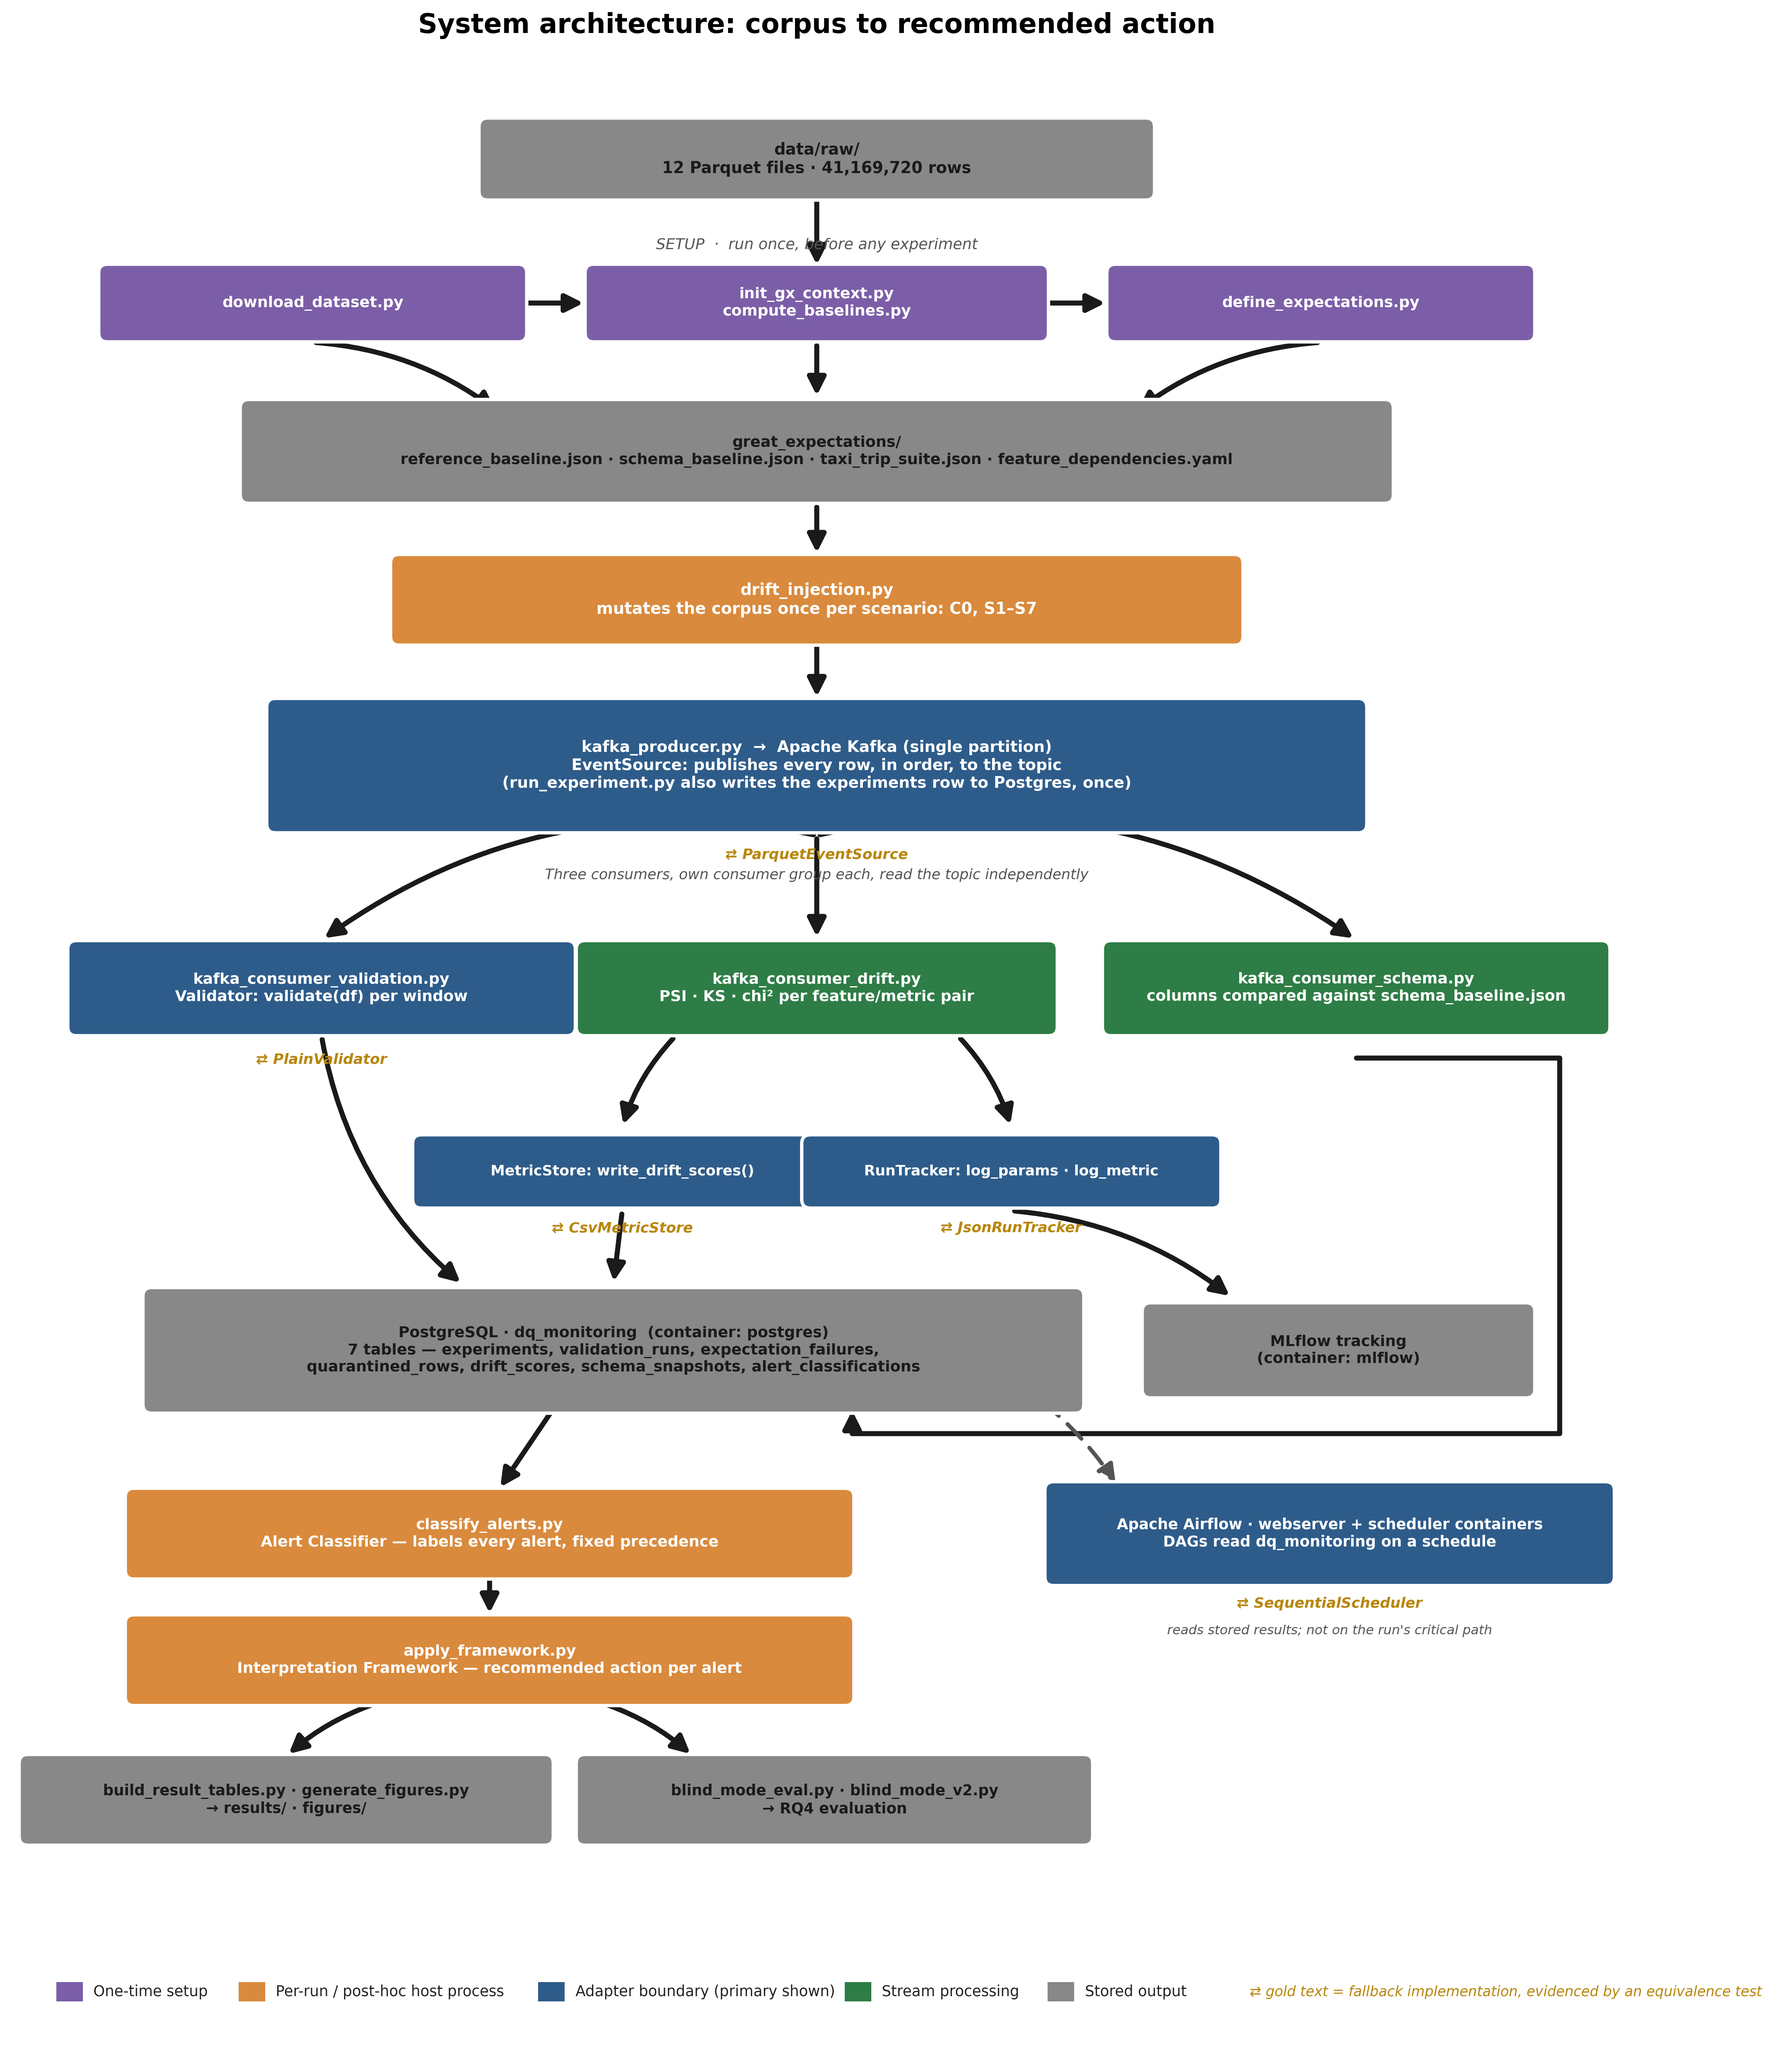
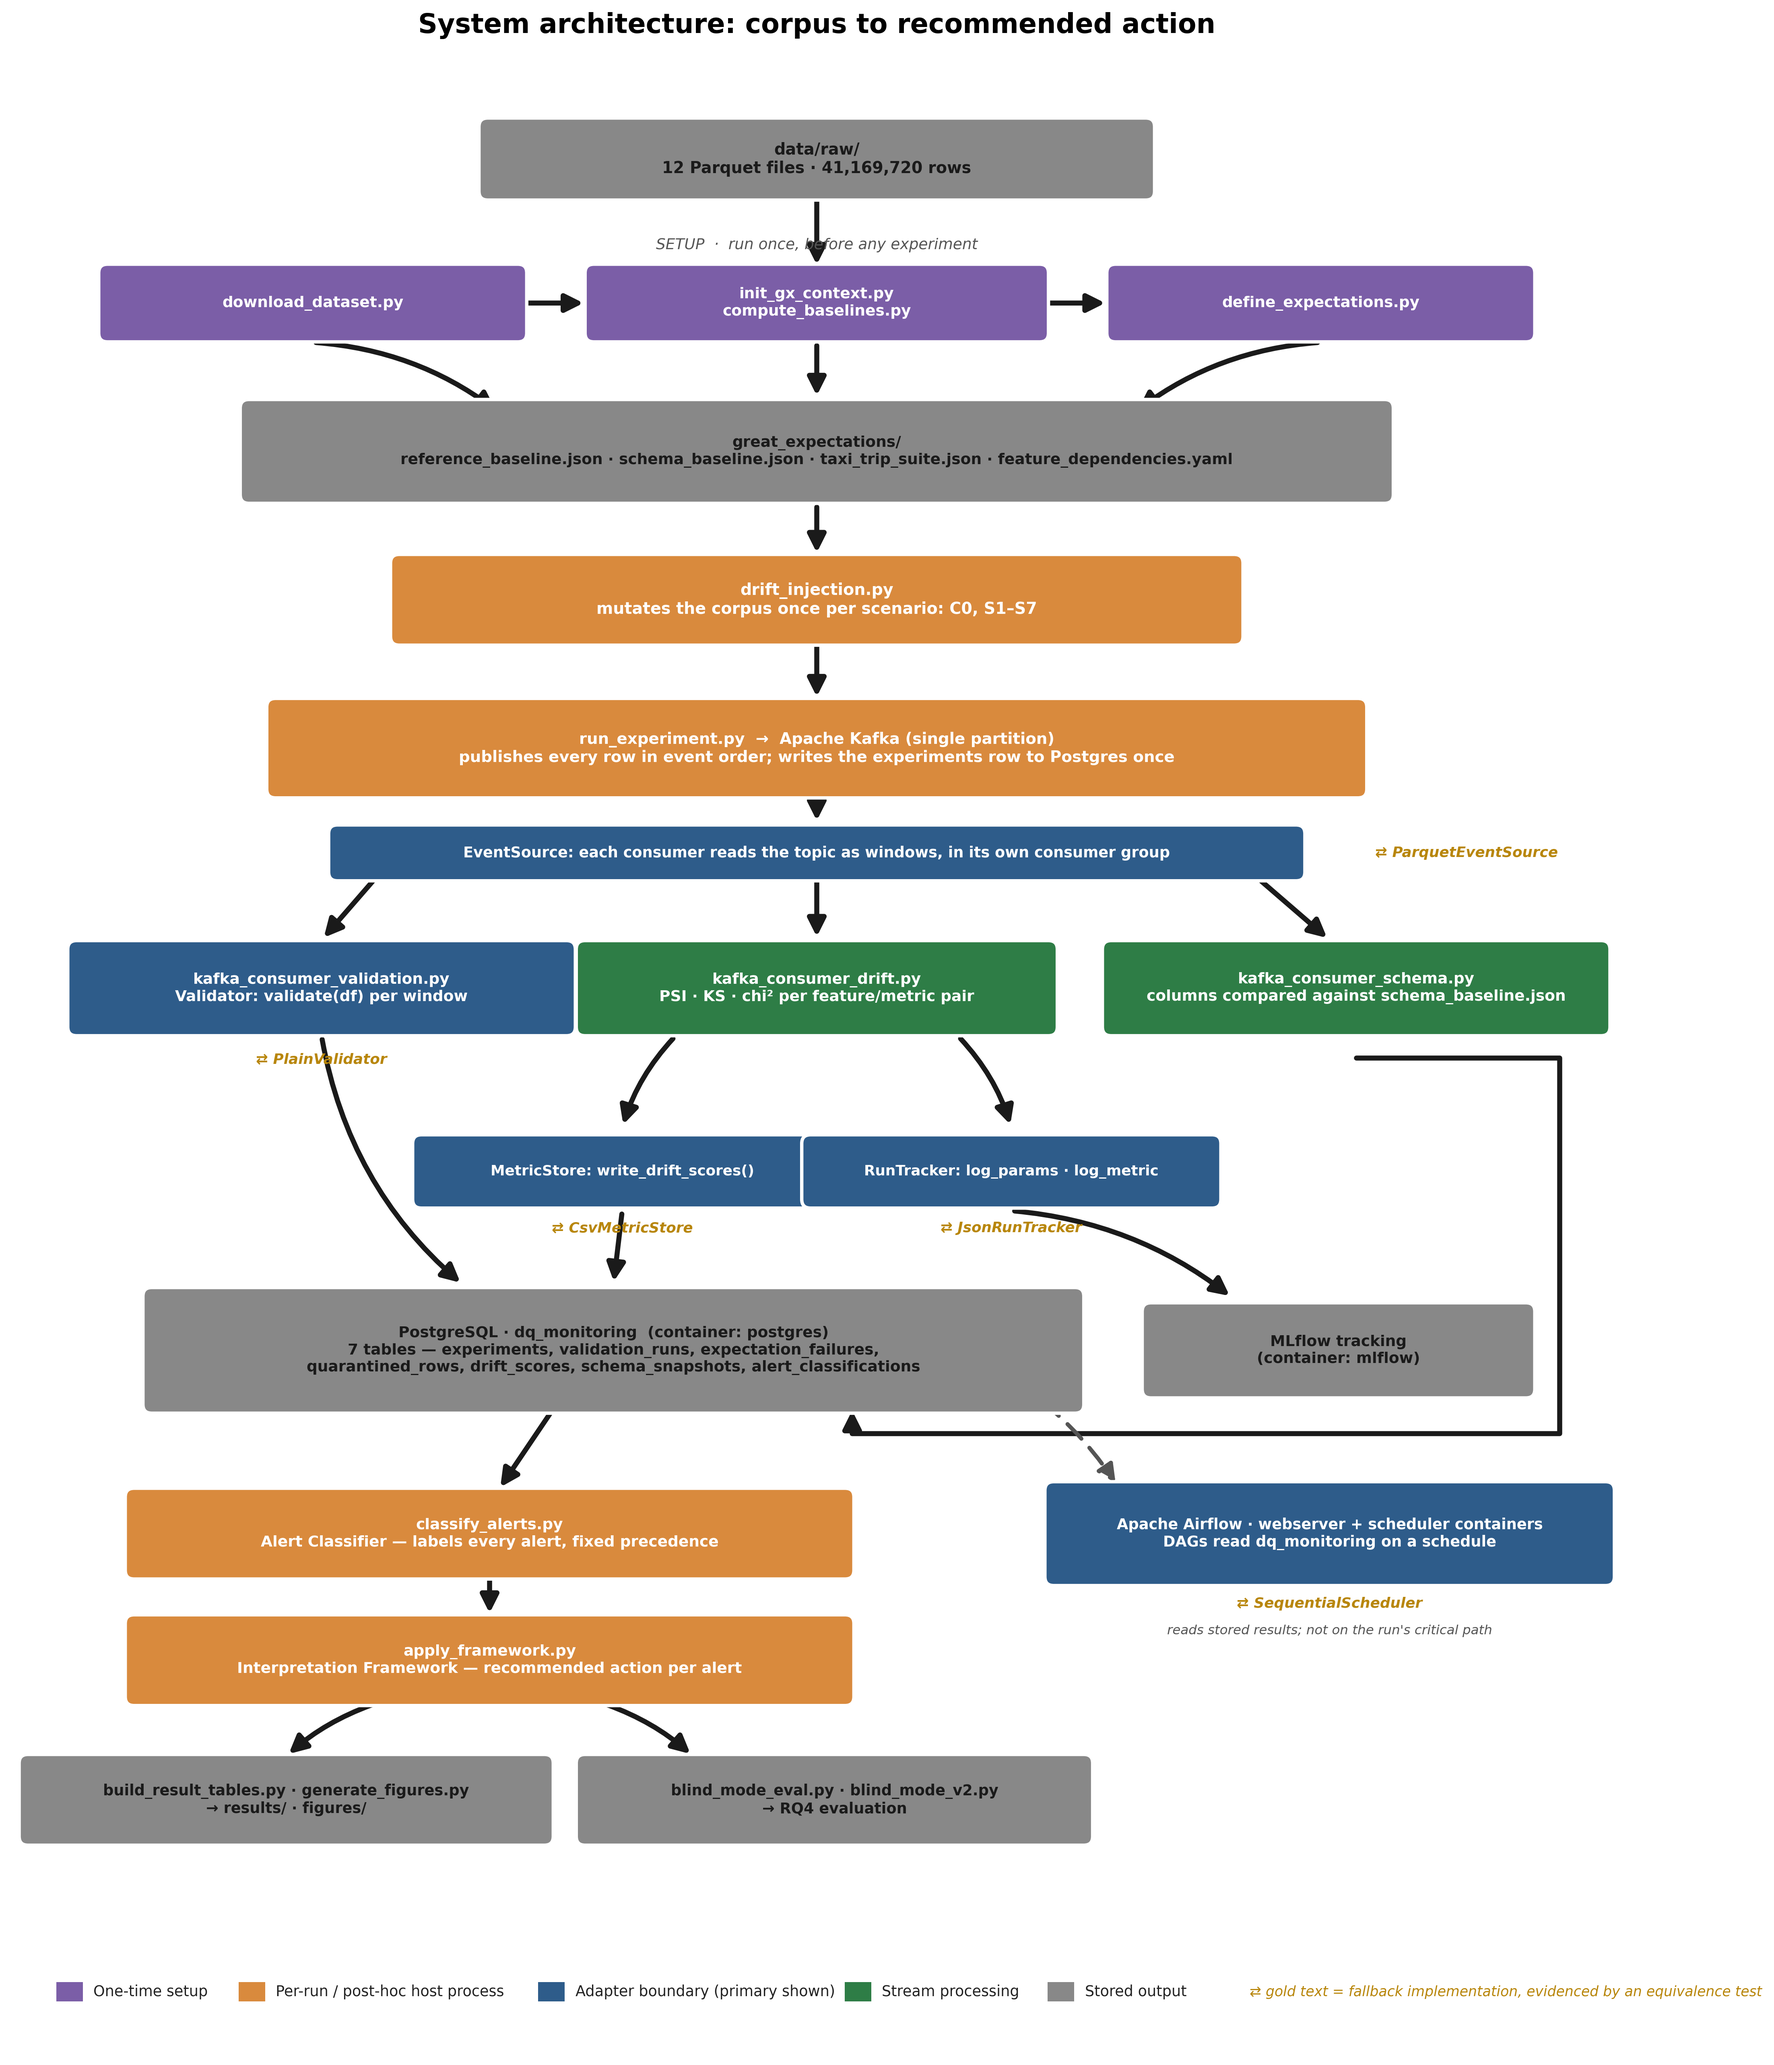
Fix four inaccurate figures found in an audit against the result data
- fig_decision_tree drew the empirical-edge -> ACCEPT path as exercised;
  it never was. Exercised paths are now read from each alert's stored
  classification rule, and a failed query skips the figure instead of
  drawing every path as exercised.
- fig_unseen_category defined post-activation by window_start while the
  rest of the pipeline uses window_end; now matches build_result_tables.
- fig_replay_pipeline said verify_experiment checks five tables (it
  checks four) and "8 PNG files" (now 10); counts dropped rather than
  re-hard-coded.
- fig_system_architecture credited kafka_producer.py, which no
  experiment uses, and put EventSource on the publish side; regenerated.

The first three need the database to regenerate; recorded in
PROJECT_RECORD.md Section 12. README's verify_experiment line fixed too.

Changed region(s): [[0.1243, 0.3119, 0.777, 0.4678]]

diff --git a/scripts/generate_figures.py b/scripts/generate_figures.py
@@ -305,17 +305,30 @@ def fig_decision_tree():
           magnitude >= 2x threshold        -> INVESTIGATE
           otherwise                        -> MONITOR
     """
+    # Which paths were exercised is read from the stored evidence, not assumed:
+    # each alert records the rule that labelled it (alert_classifier.classify).
     try:
         ex = q("""SELECT
               (SELECT COUNT(*) FROM dq_monitoring.schema_snapshots
                WHERE has_schema_change)     AS schema_changes,
               (SELECT COUNT(*) FROM dq_monitoring.alert_classifications
-               WHERE label = 'UNEXPLAINED') AS unexplained""")
+               WHERE label = 'UNEXPLAINED') AS unexplained,
+              (SELECT COUNT(*) FROM dq_monitoring.alert_classifications
+               WHERE evidence->>'rule' = 'empirical dependency edge, absent from control')
+                                            AS empirical_accept,
+              (SELECT COUNT(*) FROM dq_monitoring.alert_classifications
+               WHERE evidence->>'rule' = 'empirical edge, but the control also alerted here')
+                                            AS empirical_suppress""")
         saw_schema = int(ex.schema_changes.iloc[0]) > 0
         saw_unexpl = int(ex.unexplained.iloc[0]) > 0
+        saw_emp_accept = int(ex.empirical_accept.iloc[0]) > 0
+        saw_emp_suppress = int(ex.empirical_suppress.iloc[0]) > 0
     except Exception as exc:
-        print(f"    ! could not query exercised branches ({type(exc).__name__})")
-        saw_schema = saw_unexpl = True
+        # Drawing every path as exercised would overstate coverage, so skip.
+        print(f"  ! could not query exercised branches ({type(exc).__name__}); "
+              "skipping fig_decision_tree")
+        return
+    saw_empirical = saw_emp_accept or saw_emp_suppress
 
     fig, ax = plt.subplots(figsize=(15.5, 11))
     ax.set_xlim(0, 17.4); ax.set_ylim(0, 16.6); ax.axis("off")
@@ -371,12 +384,12 @@ def fig_decision_tree():
     box(7.9, 9.4, 2.9, .62, "Edge type?", BLUE)
     arrow(5.1, 9.4, 6.45, 9.4, "yes", 5.8, 9.72)
     box(15.5, 8.5, 2.3, .62, "ACCEPT", GREEN, 11.5)
-    box(11.9, 7.4, 3.4, .95, "C3  Alerted in the\nclean control?", BLUE, 9.5)
-    box(15.4, 6.1, 2.6, .62, "SUPPRESS", GREEN, 11)
+    box(11.9, 7.4, 3.4, .95, "C3  Alerted in the\nclean control?", BLUE, 9.5, live=saw_empirical)
+    box(15.4, 6.1, 2.6, .62, "SUPPRESS", GREEN, 11, live=saw_emp_suppress)
     arrow(9.35, 9.25, 14.35, 8.62, "deterministic", 11.7, 9.22)
-    arrow(9.35, 9.05, 10.2, 7.7, "empirical", 9.55, 8.28)
-    arrow(13.6, 7.62, 14.35, 8.38, "no", 13.7, 8.16)
-    arrow(13.6, 7.12, 14.1, 6.3, "yes", 13.62, 6.66)
+    arrow(9.35, 9.05, 10.2, 7.7, "empirical", 9.55, 8.28, live=saw_empirical)
+    arrow(13.6, 7.62, 14.35, 8.38, "no", 13.7, 8.16, live=saw_emp_accept)
+    arrow(13.6, 7.12, 14.1, 6.3, "yes", 13.62, 6.66, live=saw_emp_suppress)
 
     # C3 -------------------------------------------------------------------
     box(SX, 6.5, SW, 1.05, "C3  Same feature and metric\nalerted in the clean control?", BLUE, 9.5)
@@ -394,7 +407,7 @@ def fig_decision_tree():
 
     handles = [mpatches.Patch(color=BLUE, label="Decision criterion"),
                mpatches.Patch(color=GREEN, label="Recommended action")]
-    if not (saw_schema and saw_unexpl):
+    if not (saw_schema and saw_unexpl and saw_emp_accept and saw_emp_suppress):
         handles.append(Line2D([0], [0], color="#5A5A5A", linestyle=(0, (3, 2)),
                               linewidth=1.6,
                               label="Path not exercised by the experiments"))
@@ -411,7 +424,9 @@ def fig_decision_tree():
     plt.close(fig)
     print("fig_decision_tree.png")
     print(f"    schema branch exercised: {saw_schema}; "
-          f"unexplained branch exercised: {saw_unexpl}")
+          f"unexplained branch exercised: {saw_unexpl}; "
+          f"empirical edge -> ACCEPT: {saw_emp_accept}; "
+          f"empirical edge -> SUPPRESS: {saw_emp_suppress}")
 
 
 # ---------------------------------------------------------------- figure 5b
@@ -502,7 +517,7 @@ def fig_replay_pipeline():
     # verify_experiment.py gate: routed above the row stack so it never
     # crosses the per-row date/alert text.
     verify_y = replay_top + .95
-    box(vx, verify_y, 5.4, 1.35, "verify_experiment.py\nrun between replays · checks five tables\n"
+    box(vx, verify_y, 5.4, 1.35, "verify_experiment.py\nrun between replays · checks four tables\n"
         "are populated and prints the activation point", "#D98A3D", 8.4)
     ax.text(vx + .35, verify_y - .68, "per-run gate", fontsize=8, style="italic", color="#7a5122", ha="left")
     arrow(3.3, rect_top, vx - 2.55, verify_y + .15, dashed=True, rad=-0.25)
@@ -528,7 +543,8 @@ def fig_replay_pipeline():
     an_y2 = an_y1 - 1.85
     box(2.7, an_y2, 6.6, 1.2,
         "build_result_tables · generate_figures ·\nblind_mode_eval · blind_mode_v2\n"
-        "8 CSV files · 8 PNG files · the RQ4 evaluation", "#D98A3D", 8.3)
+        "result tables → results/ · figures → figures/ · the RQ4 evaluation",
+        "#D98A3D", 8.3)
     arrow(2.7, an_y1 - .775, 2.7, an_y2 + .6)
 
     box(vx, an_y1, 5.4, 2.05,
@@ -646,19 +662,22 @@ def fig_system_architecture():
         HOST_ORANGE, 9.5)
     arrow(8.6, 14.15, 8.6, 13.5)
 
-    box(8.6, 12.75, 12.4, 1.5,
-        "kafka_producer.py  →  Apache Kafka (single partition)\n"
-        "EventSource: publishes every row, in order, to the topic\n"
-        "(run_experiment.py also writes the experiments row to Postgres, once)",
-        ADAPTER_BLUE, 9.3)
-    tag(8.6, 11.73, "ParquetEventSource")
+    # run_experiment.py publishes directly; kafka_producer.py is not used by any
+    # experiment. EventSource is the read side (interfaces.EventSource.windows),
+    # so its boundary sits between the topic and the consumers.
+    box(8.6, 12.95, 12.4, 1.1,
+        "run_experiment.py  →  Apache Kafka (single partition)\n"
+        "publishes every row in event order; writes the experiments row to Postgres once",
+        HOST_ORANGE, 9.3)
+    arrow(8.6, 12.4, 8.6, 12.08)
+    box(8.6, 11.75, 11.0, 0.6,
+        "EventSource: each consumer reads the topic as windows, in its own consumer group",
+        ADAPTER_BLUE, 8.8)
+    tag(15.95, 11.75, "ParquetEventSource")
 
-    ax.text(8.6, 11.45,
-            "Three consumers, own consumer group each, read the topic independently",
-            ha="center", fontsize=8.6, style="italic", color="#555555")
-    arrow(8.6, 11.95, 3.0, 10.75, rad=0.22)
-    arrow(8.6, 11.95, 8.6, 10.75)
-    arrow(8.6, 11.95, 14.7, 10.75, rad=-0.22)
+    arrow(3.6, 11.45, 3.0, 10.75)
+    arrow(8.6, 11.45, 8.6, 10.75)
+    arrow(13.6, 11.45, 14.4, 10.75)
 
     # THREE CONSUMERS ------------------------------------------------------
     box(3.0, 10.2, 5.7, 1.05, "kafka_consumer_validation.py\nValidator: validate(df) per window",
@@ -826,11 +845,14 @@ def fig_unseen_category():
     threshold, while the chi-square statistic reaches the order of 10^11
     because an unseen category drives the expected count to zero and the
     value returned is a function of the regularisation floor.
+
+    Post-activation means use window_end, the same boundary as
+    build_result_tables.py, so the values here agree with recall_by_metric.csv.
     """
     df = q("""
         SELECT LEFT(experiment_id, 2) AS scen, metric_name,
                AVG(metric_value) FILTER (
-                   WHERE window_start >= (SELECT MIN(activation_timestamp)
+                   WHERE window_end >= (SELECT MIN(activation_timestamp)
                                           FROM dq_monitoring.experiments
                                           WHERE activation_timestamp IS NOT NULL)
                ) AS post

diff --git a/README.md b/README.md
@@ -81,8 +81,9 @@ between scenarios -- classification requires every earlier run to still be prese
 Never launch the same scenario twice concurrently; a prior `tee` collision has
 overwritten a run's log this way.
 
-Run `python scripts/verify_experiment.py` between replays to confirm the five
-monitoring tables were populated and to print the recorded activation point.
+Run `python scripts/verify_experiment.py` between replays to confirm the run's rows
+reached `experiments`, `validation_runs`, `drift_scores` and `schema_snapshots`, and to
+print the recorded activation point.
 
 ## Analysis
 
